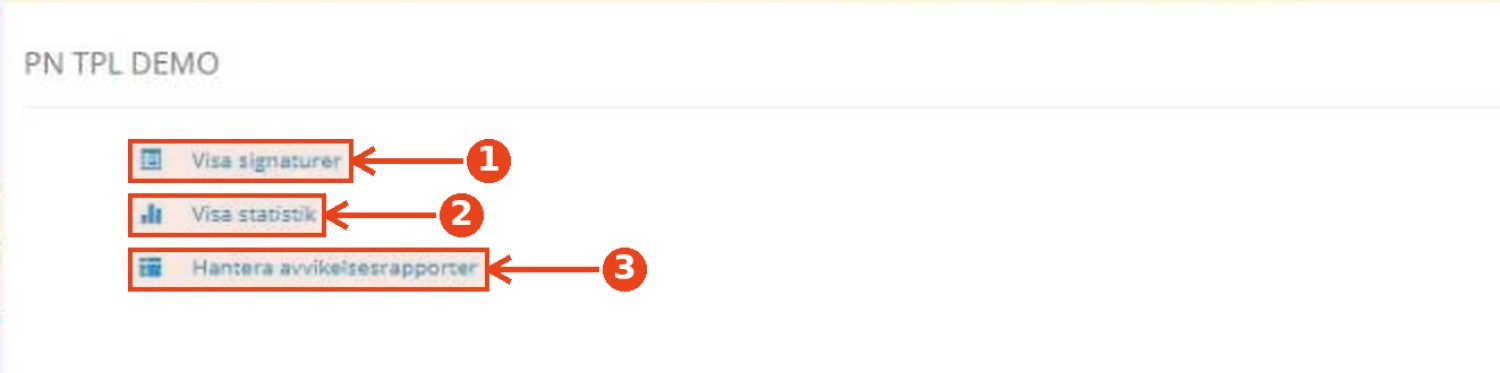
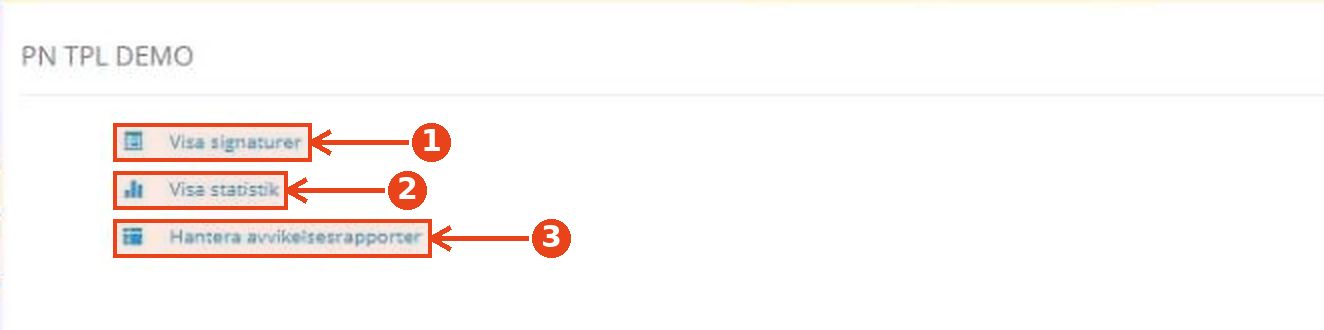
Polish: exact menu-item hotspots, sharper images, honest unanswered analytics, admin layout fixes, demo-data script
Claude-Session: https://claude.ai/code/session_01WCscTUk1sdCymkHBGaWu37

diff --git a/helpdesk/server/src/demo-data.ts b/helpdesk/server/src/demo-data.ts
@@ -1,0 +1,60 @@
+// Fyller en DATA_DIR med SIMULERAD trafik så att analytics-sidan går att utvärdera.
+// Kör mot en separat katalog:  DATA_DIR=/tmp/demo npm run demo-data && DATA_DIR=/tmp/demo PORT=8788 npm start
+// Alla sessioner börjar på "demo-" så att de är lätta att känna igen.
+import { randomUUID } from "node:crypto";
+import { loadConfig } from "./config.js";
+import { FileStore } from "./store.js";
+import { SearchEngine, qualityOf } from "./search/engine.js";
+import type { HelpEvent, Ticket } from "../../shared/types.js";
+
+const cfg = loadConfig();
+if (!process.env.DATA_DIR) throw new Error("Sätt DATA_DIR till en separat katalog (demo-data ska aldrig blandas med riktig data).");
+const store = new FileStore(cfg);
+const engine = new SearchEngine();
+engine.build(store.listGuides());
+
+// [fråga, antal, sida, andel som svarar Nej]
+const TRAFFIC: [string, number, string | undefined, number][] = [
+  ["Hur ändrar jag språk?", 37, "languages", 0.1],
+  ["Hur lägger jag upp en bild?", 28, "images", 0.12],
+  ["Byta bild", 11, "images", 0.1],
+  ["Hur ändrar jag öppettider?", 22, "location-info", 0.15],
+  ["Hur skickar jag ett SMS?", 19, "notifications", 0.2],
+  ["ändra sms texten", 16, "sms", 0.55],
+  ["Hur ändrar jag vilken port chauffören ska till?", 14, "gates", 0.4],
+  ["Hur skriver jag ut QR-koder?", 9, "qr", 0.1],
+  ["fler lastbilar per timme", 12, "capacity", 0.12],
+  ["Hur skapar jag en bokning?", 17, undefined, 0],
+  ["Hur lägger jag till en användare?", 13, undefined, 0],
+  ["glömt lösenord", 6, undefined, 0],
+];
+
+const day = 86_400_000;
+const rnd = (a: number) => Math.floor(Math.random() * a);
+const events: HelpEvent[] = [];
+const tickets: Ticket[] = [];
+for (const [q, count, page, noRate] of TRAFFIC) {
+  for (let i = 0; i < count; i++) {
+    const ts = new Date(Date.now() - rnd(28 * day) - rnd(day)).toISOString();
+    const sessionId = "demo-" + randomUUID().slice(0, 8);
+    const hit = engine.search(q, { page })[0];
+    const quality = hit ? qualityOf(hit.score) : "none";
+    const queryId = randomUUID();
+    const guideId = quality !== "none" ? hit?.guide.id : undefined;
+    events.push({ id: randomUUID(), ts, type: "ask", queryId, sessionId, q, lang: "sv", page, guideId, quality, confidence: hit?.score });
+    if (quality === "good") {
+      events.push({ id: randomUUID(), ts, type: "view", queryId, sessionId, guideId, page });
+      if (Math.random() < 0.7) {
+        const no = Math.random() < noRate;
+        events.push({ id: randomUUID(), ts, type: "feedback", queryId, sessionId, q, guideId, helped: !no, page, lang: "sv" });
+        if (no && Math.random() < 0.5) tickets.push({ id: "T-" + randomUUID().slice(0, 6).toUpperCase(), createdAt: ts, status: "open", question: q, guideId, guideTitle: hit!.guide.title, page, stepsViewed: [0, 1], comment: "Hittar inte knappen", lang: "sv", deflectable: true });
+      }
+    } else if (Math.random() < 0.3) {
+      tickets.push({ id: "T-" + randomUUID().slice(0, 6).toUpperCase(), createdAt: ts, status: Math.random() < 0.5 ? "closed" : "open", question: q, stepsViewed: [], lang: "sv", deflectable: false });
+    }
+  }
+}
+events.sort((a, b) => a.ts.localeCompare(b.ts)).forEach((e) => store.addEvent(e));
+tickets.forEach((t) => store.saveTicket(t));
+store.flush();
+console.log(`Skapade ${events.length} simulerade händelser och ${tickets.length} supportärenden i ${cfg.dataDir}`);

diff --git a/helpdesk/web/src/styles.css b/helpdesk/web/src/styles.css
@@ -143,10 +143,11 @@ main { display: grid; gap: 20px; }
 .hs-edit { position: relative; user-select: none; touch-action: none; cursor: crosshair; border-radius: 10px; overflow: hidden; border: 1px solid var(--line); line-height: 0; } .hs-edit img { width: 100%; display: block; pointer-events: none; }
 .hs-rect { position: absolute; border: 3px solid var(--mark); background: rgba(232,67,26,.18); border-radius: 4px; pointer-events: none; }
 .tiles { display: grid; grid-template-columns: repeat(auto-fit, minmax(150px, 1fr)); gap: 10px; margin-bottom: 16px; } .tile { background: var(--card); border: 1px solid var(--line); border-radius: 14px; padding: 12px 14px; box-shadow: var(--shadow); } .tile b { display: block; font-size: 1.8rem; line-height: 1.1; color: var(--navy); } .tile span { font-size: .82rem; color: var(--muted); }
-.dash { display: grid; gap: 14px; grid-template-columns: repeat(auto-fit, minmax(340px, 1fr)); } @media (max-width: 420px) { .dash { grid-template-columns: 1fr; } }
-.bars { display: grid; gap: 8px; } .bar-row { display: grid; gap: 3px; } .bar-row .lbl { display: flex; justify-content: space-between; gap: 8px; font-size: .9rem; } .bar { height: 8px; border-radius: 4px; background: var(--line); overflow: hidden; } .bar i { display: block; height: 100%; background: var(--brand); } .bar i.bad { background: var(--mark); }
+.dash { align-items: start; display: grid; gap: 14px; grid-template-columns: repeat(auto-fit, minmax(340px, 1fr)); } @media (max-width: 420px) { .dash { grid-template-columns: 1fr; } }
+.bars { align-content: start; display: grid; gap: 8px; } .bar-row { display: grid; gap: 3px; } .bar-row .lbl { display: flex; justify-content: space-between; gap: 8px; font-size: .9rem; } .bar { height: 8px; border-radius: 4px; background: var(--line); overflow: hidden; } .bar i { display: block; height: 100%; background: var(--brand); } .bar i.bad { background: var(--mark); }
 .spark { display: flex; align-items: flex-end; gap: 2px; height: 80px; } .spark i { flex: 1; min-height: 2px; background: var(--brand); border-radius: 2px 2px 0 0; position: relative; } .spark i b { position: absolute; left: 0; right: 0; bottom: 0; background: var(--mark); border-radius: 2px 2px 0 0; }
 .suggest { border-left: 4px solid var(--mark); padding: 8px 12px; background: var(--card); border-radius: 0 12px 12px 0; margin-bottom: 8px; } .suggest.improve { border-color: var(--brand); }
 .modal-bg { position: fixed; inset: 0; background: rgba(5,20,30,.55); display: grid; place-items: center; z-index: 50; padding: 16px; } .modal { background: var(--card); border-radius: 18px; padding: 18px; width: min(560px, 100%); max-height: 90vh; overflow: auto; }
 .thumbs { display: flex; gap: 8px; flex-wrap: wrap; margin: 8px 0; } .thumbs img { height: 70px; border-radius: 8px; border: 1px solid var(--line); }
 .toast { position: fixed; bottom: 18px; left: 50%; transform: translateX(-50%); background: #11283a; color: #fff; padding: 10px 18px; border-radius: 12px; z-index: 60; }
+@media (max-width: 600px) { .step-edit .head { flex-wrap: wrap; } .step-edit .head input { flex: 1 1 100%; order: 2; } .step-edit .head .badge { order: 1; margin-right: auto; } .step-edit .head .mini { order: 1; } }

diff --git a/helpdesk/server/src/analytics.ts b/helpdesk/server/src/analytics.ts
@@ -28,7 +28,7 @@ export function buildReport(
     if (!g) groups.set(sig, (g = { q: a.q!, qs: new Map(), count: 0, guideIds: new Map(), terms: engine.termSet(a.q!) }));
     g.count++;
     g.qs.set(a.q!, (g.qs.get(a.q!) ?? 0) + 1);
-    if (a.guideId && a.quality !== "none") g.guideIds.set(a.guideId, (g.guideIds.get(a.guideId) ?? 0) + 1);
+    if (a.guideId && a.quality === "good") g.guideIds.set(a.guideId, (g.guideIds.get(a.guideId) ?? 0) + 1);
   }
   const clusters = [...groups.values()].map((g) => ({
     ...g, q: [...g.qs].sort((a, b) => b[1] - a[1])[0][0],
@@ -39,7 +39,7 @@ export function buildReport(
   // Slå ihop nära kluster (t.ex. "ladda upp bild" / "byta bild") för förbättringsförslag
   const merged: { terms: Set<string>; count: number; examples: Set<string>; guides: Map<string, number>; noneCount: number; q: string }[] = [];
   for (const c of clusters) {
-    const noneCount = asks.filter((a) => a.q === c.q && a.quality === "none").length;
+    const noneCount = asks.filter((a) => a.q === c.q && a.quality !== "good").length;
     const hit = merged.find((m) => jaccard(m.terms, c.terms) >= 0.6);
     if (hit) {
       hit.count += c.count; hit.noneCount += noneCount;
@@ -51,7 +51,7 @@ export function buildReport(
   }
 
   const unansweredMap = new Map<string, number>();
-  for (const a of asks) if (a.quality === "none") unansweredMap.set(a.q!.toLowerCase(), (unansweredMap.get(a.q!.toLowerCase()) ?? 0) + 1);
+  for (const a of asks) if (a.quality !== "good") unansweredMap.set(a.q!.toLowerCase(), (unansweredMap.get(a.q!.toLowerCase()) ?? 0) + 1);
 
   // Guider
   const guideStats = new Map<string, { views: number; yes: number; no: number }>();
@@ -100,7 +100,7 @@ export function buildReport(
 
   const yes = fb.filter((e) => e.helped).length;
   const no = fb.filter((e) => e.helped === false).length;
-  const answered = asks.filter((a) => a.quality !== "none").length;
+  const answered = asks.filter((a) => a.quality === "good").length;
 
   // Dagsserie
   const days = new Map<string, { questions: number; no: number }>();

diff --git a/helpdesk/server/src/seed/guides.ts b/helpdesk/server/src/seed/guides.ts
@@ -36,16 +36,22 @@ function buildSteps(id: string, steps: S[]): Step[] {
     const image = menuStep ? "p3" : imageIn;
     const pin = menuStep ? 3 : pinIn;
     const step: Step = { id: `${id}-${i + 1}`, text };
+    const menuName = menuStep ? text.match(/\*\*(.+?)\*\*/)?.[1] : undefined;
     if (image) {
       const f = FOCUS[image];
       step.image = `/media/${image}.jpg`;
       step.annotated = true;
       step.ratio = f?.ratio;
       const p = pin ? f?.pins[String(pin)] : undefined;
-      if (p) {
+      if (menuName && MENU_Y[menuName] !== undefined) {
+        // Markera exakt det menyval som steget gäller.
+        const cy = MENU_Y[menuName];
+        step.hotspot = { x: 0.775, y: cy - 0.022, w: 0.185, h: 0.044 };
+        step.annotated = false;
+      } else if (p) {
         // Zooma mot pilens spets och lite förbi den, så att hela målrutan syns.
         const dx = p.fx - p.x, dy = p.fy - p.y, len = Math.hypot(dx, dy) || 1;
-        const reach = 0.1, r = step.ratio ?? 1.6;
+        const reach = 0.08, r = step.ratio ?? 1.6;
         step.focus = { x: Math.min(0.97, Math.max(0.03, p.fx + (dx / len) * reach)), y: Math.min(0.97, Math.max(0.03, p.fy + (dy / len) * reach * r)) };
         step.pin = { x: p.x, y: p.y };
       }
@@ -53,6 +59,12 @@ function buildSteps(id: string, steps: S[]): Step[] {
     return step;
   });
 }
+
+// Radernas lodräta mittpunkt (0–1) i platsmenybilden (sida 3), för att kunna markera exakt rätt menyval.
+const MENU_Y: Record<string, number> = {
+  "Språkhantering": 0.418, "Ändra platsinformation": 0.462, "Bildhantering": 0.506, "Konfigurera bildspel": 0.55, "Tillåten incheckning": 0.594,
+  "Hantera kapacitet": 0.638, "Hantera grindar": 0.682, "Aviseringsinställningar": 0.726, "SMS-mallar": 0.768, "Ändra struktur": 0.812, "Visa rapporter": 0.856,
+};
 
 const NOW = new Date().toISOString();
 

diff --git a/helpdesk/web/src/pages/Ask.tsx b/helpdesk/web/src/pages/Ask.tsx
@@ -35,21 +35,26 @@ export function Ask() {
         <GuideView guide={res.guide} question={q} queryId={res.queryId} short={res.short} related={related} />
       )}
 
-      {res && res.quality !== "good" && (
+      {res && res.quality !== "good" && (() => {
+        // Visa bara förslag som faktiskt ligger nära – hellre inget än löst relaterat brus.
+        const near = res.alternatives.filter((a) => a.score >= 0.3).slice(0, 3);
+        const weak = res.quality === "weak" && near.length > 0;
+        return (
         <div className="no-answer">
           <div className="card">
-            <h2>{res.quality === "weak" ? t.weakTitle : t.noneTitle}</h2>
-            {res.quality === "none" && <p className="muted">{t.noneHint}</p>}
-            {res.alternatives.length > 0 && <CandidateList items={res.alternatives.slice(0, 3)} />}
+            <h2>{weak ? t.weakTitle : t.noneTitle}</h2>
+            {!weak && <p className="muted">{t.noneHint}</p>}
+            {weak && <CandidateList items={near} />}
           </div>
-          {res.quality === "none" && (
+          {!weak && (
             <div className="topics">
               {config?.categories.map((c) => <Link key={c.id} to={`/c/${c.id}`} className="topic"><span aria-hidden>{catIcon(c.id)}</span><b>{catLabel(c.id)}</b></Link>)}
             </div>
           )}
           {showTicket ? <TicketForm question={q} stepsViewed={[]} queryId={res.queryId} /> : <button className="btn big" onClick={() => setShowTicket(true)}>{t.support}</button>}
         </div>
-      )}
+        );
+      })()}
     </div>
   );
 }

diff --git a/helpdesk/web/src/admin/GuideEditor.tsx b/helpdesk/web/src/admin/GuideEditor.tsx
@@ -40,7 +40,7 @@ function ImageField({ step, onChange }: { step: Step; onChange: (s: Step) => voi
   if (step.image) {
     return (
       <div>
-        <HotspotEditor src={step.image} value={step.hotspot} onChange={(h) => onChange({ ...step, hotspot: h })} onRatio={(r) => step.ratio !== r && onChange({ ...step, ratio: r })} />
+        <HotspotEditor src={step.image} value={step.hotspot} onChange={(h) => onChange({ ...step, hotspot: h })} onRatio={(r) => !step.ratio && onChange({ ...step, ratio: r })} />
         <div className="row">
           <button type="button" className="btn small" onClick={() => input.current?.click()}>Byt bild</button>
           <button type="button" className="btn small ghost danger" onClick={() => onChange({ ...step, image: undefined, hotspot: undefined, focus: undefined, annotated: false })}>Ta bort bild</button>

diff --git a/helpdesk/web/src/components/StepViewer.tsx b/helpdesk/web/src/components/StepViewer.tsx
@@ -27,7 +27,7 @@ export function Shot({ step, zoomed, n, showBadge = true }: { step: Step; zoomed
   const center = step.hotspot ? { x: step.hotspot.x + step.hotspot.w / 2, y: step.hotspot.y + step.hotspot.h / 2 } : step.focus;
   const baseH = w / ratio;
   const contain = Math.min(1, H / (baseH || 1));
-  const zoomScale = step.hotspot ? clamp(0.5 / Math.max(step.hotspot.w, step.hotspot.h * 0.8, 0.1), 1.3, 3.2) : step.focus ? 2.1 : 1;
+  const zoomScale = step.hotspot ? clamp(0.5 / Math.max(step.hotspot.w, step.hotspot.h * 0.8, 0.1), 1.3, 3.2) : step.focus ? 1.8 : 1;
   const s = zoomed && center ? Math.max(zoomScale, contain) : contain;
   const imgW = w * s, imgH = imgW / ratio;
   const c = zoomed && center ? center : { x: 0.5, y: 0.5 };

diff --git a/helpdesk/README.md b/helpdesk/README.md
@@ -50,7 +50,7 @@ Hjälpen använder sidan som kontext ("Hur ändrar jag detta?"). Guidens `pageKe
 walkthrough-sektion (`[data-help='menu-capacity']`, klick/skriv/nästa). Se `web/public/demo-host.html`.
 
 ## Innehåll
-Första start seedar 22 guider ur manualen "Användarguide Location Admin". För att seeda om: stoppa servern och ta bort `server/data/db.json`.
+Första start seedar 25 guider ur manualen "Användarguide Location Admin". För att seeda om: stoppa servern och ta bort `server/data/db.json`.
 Lägg in video per guide i admin (mp4/webm, YouTube eller Loom) – ingen kodändring behövs.
 
 ## Säkerhet
@@ -59,3 +59,7 @@ publika endpoints är rate-limitade. Sätt `ALLOWED_ORIGINS` och kör bakom HTTP
 
 ## Nästa steg
 Embeddings (bakom `SearchEngine`), SSO för admin, Postgres, automatisk guideförbättring från analytics.
+
+## Demo-data för analytics
+`DATA_DIR=/tmp/demo npm run demo-data -w server` fyller en **separat** katalog med simulerad trafik (sessioner märkta `demo-`).
+Starta sedan en andra server: `DATA_DIR=/tmp/demo PORT=8788 ADMIN_TOKEN=demo npm start`. Blanda aldrig med riktig data.
